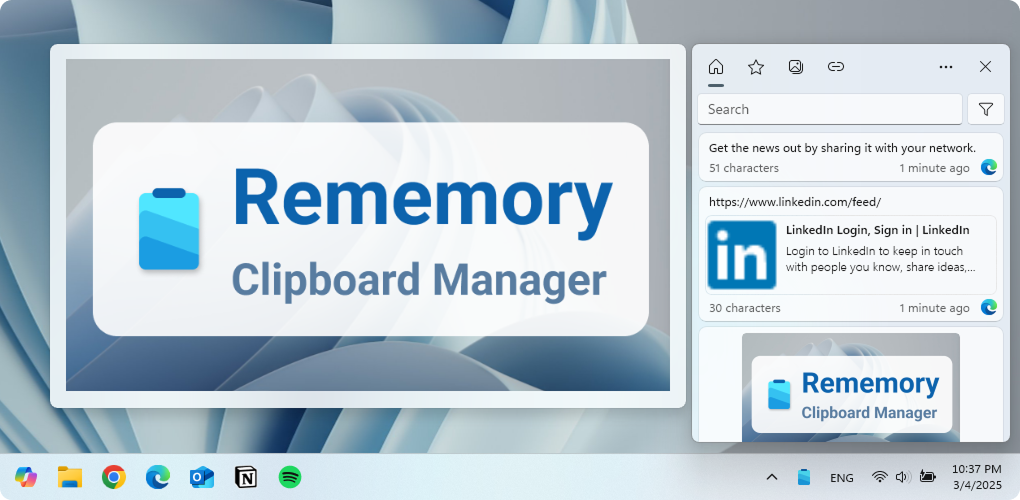
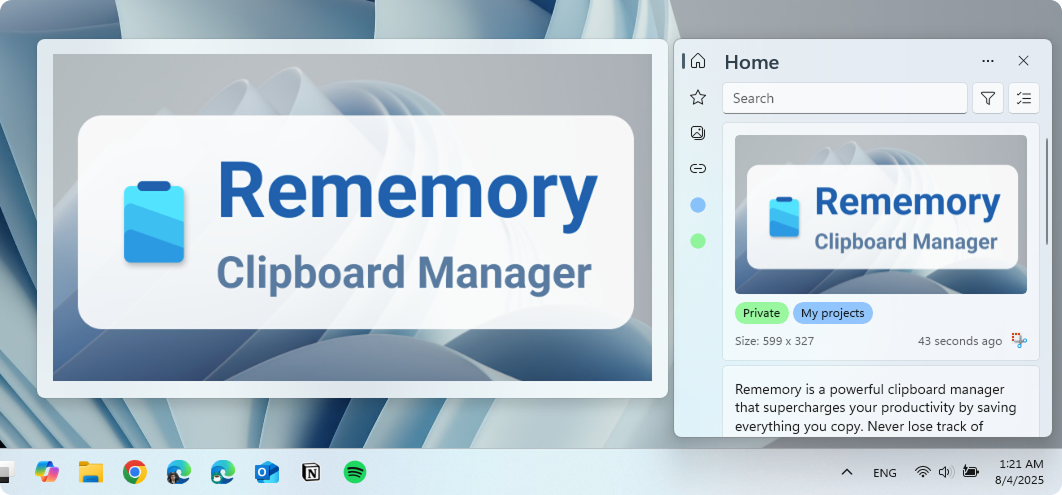
release v1.3.0

diff --git a/README.md b/README.md
@@ -19,6 +19,8 @@ Get Rememory today and never lose track of copied information again!
 - Window pinning
 - Edit clipboard content
 - Owner app filters
+- Multiple selection
+- Tags
 
 ## Download
 
@@ -26,44 +28,10 @@ Get Rememory today and never lose track of copied information again!
 	<img src="https://get.microsoft.com/images/en-us%20dark.svg" width="200"/>
 </a>
 
-[Privace Policy](./PRIVACY.md)
+[Privacy Policy](./PRIVACY.md)
 
 ## Translation
 
 [![Crowdin](https://badges.crowdin.net/rememory/localized.svg)](https://crowdin.com/project/rememory)
 
 [Translate the project on Crowdin](https://crowdin.com/project/rememory)
-
-## Screenshots
-### Drag and Drop
-
-You can easily move items from your clipboard history into other apps. The image shows how to drag link from Rememory to text editor.
-
-<p align="center">
-  <img alt="Header image" src="./.github/drag_and_drop.png" />
-</p>
-
-### Search with filters
-
-Find exactly what you need! Use app filters to quickly find any copied item.
-
-
-<p align="center">
-  <img alt="Header image" src="./.github/filters.png" />
-</p>
-
-### Text editor
-
-Need to make a quick change? Edit your copied text right inside Rememory before you paste it.
-
-<p align="center">
-  <img alt="Header image" src="./.github/editor.png" />
-</p>
-
-### Personalisation
-
-Make Rememory your own!  Change the background, colors, and window size to fit your style.
-
-<p align="center">
-  <img alt="Header image" src="./.github/personalisation.png" />
-</p>
